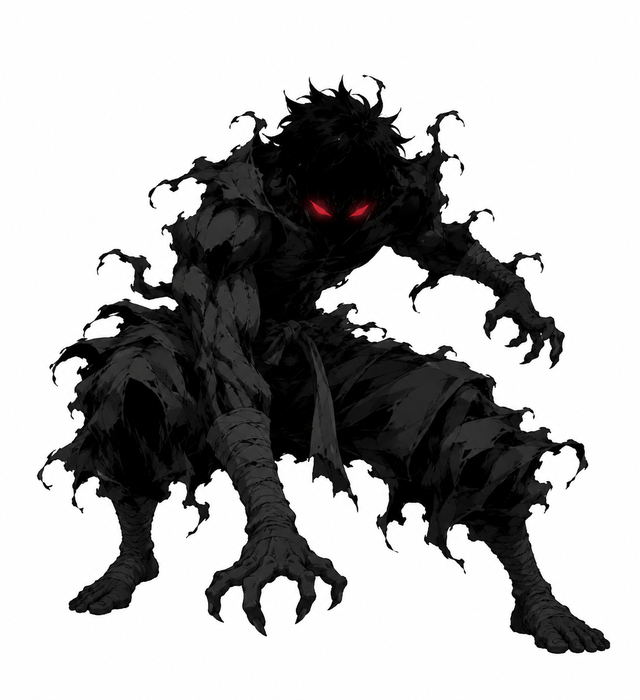
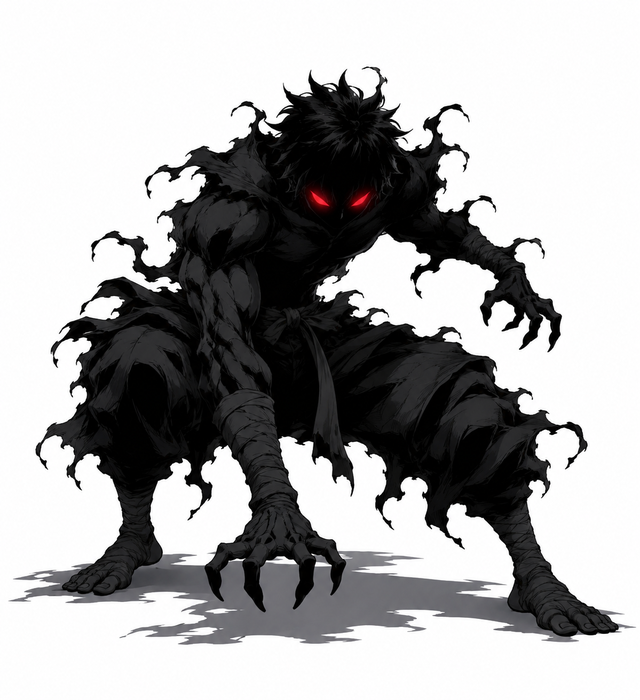
Objetivos sin scroll ni cargas manuales; agua por pregunta tras cada comida (meta 1 L); cierre automático de días; titulos de la bestia en pergamino; nueva imagen de la bestia
Claude-Session: https://claude.ai/code/session_014cUX87EDqZ9zQEPwB8aYGo

Changed region(s): [[0.0312, 0.09, 1.0, 0.93]]

diff --git a/public/app.js b/public/app.js
@@ -94,7 +94,18 @@ async function sync() {
     syncMsg = e.status === 401 ? 'Clave inválida: volvé a ingresar.' : 'Sin conexión: se sincroniza más tarde.';
     if (e.status === 401) S.token = '';
   }
-  syncing = false; save(); render();
+  syncing = false; save(); render(); autoClose();
+}
+/** Los días anteriores se cierran solos: se fija el puntaje final de la comida. */
+const closing = new Set();
+function autoClose() {
+  if (!S.startDate || !S.token) return;
+  const today = todayISO();
+  for (const [d, v] of Object.entries(S.days)) {
+    if (d >= today || v.input?.closed || !Object.keys(v.input || {}).length) continue;
+    setInput(d, i => { i.closed = true; });
+    if (wkdayOf(d) < 5 && !S.days[d].input.meals && !closing.has(d)) { closing.add(d); loadMeals(d, true).then(() => { if (mealsOf(d).length) mealClose(d); }); }
+  }
 }
 const pending = () => Object.values(S.days).filter(v => v.dirty).length;
 
@@ -133,7 +144,7 @@ async function hydratePhotos() {
   }
 }
 /** Alimentación con IA: el servidor describe cada comida, guarda la lista del día y rehace el análisis completo. */
-let busy = '', errMeal = '', pendBlob = null, pendURL = '';
+let waterQ = null, busy = '', errMeal = '', pendBlob = null, pendURL = '';
 S.mc = S.mc || {};
 const mealsOf = date => S.mc[date]?.meals ?? [];
 const blobB64 = b => new Promise((res, rej) => { const r = new FileReader(); r.onload = () => res(String(r.result).split(',')[1]); r.onerror = () => rej(r.error); r.readAsDataURL(b); });
@@ -143,11 +154,11 @@ async function aiRun(label, fn) {
   catch (e) { errMeal = e.message || 'No se pudo completar'; }
   busy = ''; render();
 }
-const mealSend = (blob, text) => aiRun('Analizando la comida…', async () => {
+const mealSend = (blob, text) => { waterQ = { date: todayISO() }; return aiRun('Analizando la comida…', async () => {
   const date = todayISO(), r = await api('/api/meal', 'POST', { date, t: hhmm(), image: blob ? await blobB64(blob) : undefined, mime: 'image/jpeg', text: text || undefined });
   if (blob) await fotoPut(r.id, blob).catch(() => {});
   S.mc[date] = { meals: r.meals }; txOpen = false; txDraft = ''; pendBlob = null; if (pendURL) URL.revokeObjectURL(pendURL); pendURL = '';
-});
+}); };
 const mealClose = date => aiRun('Armando el puntaje final del día…', async () => {
   const r = await api('/api/meal/close', 'POST', { date }); S.mc[date] = { meals: r.meals };
   if (!r.closed) errMeal = 'La IA no dio un puntaje claro: tocá Reabrir y volvé a confirmar.';
@@ -166,7 +177,7 @@ function gameStatus(h, cap) {
 // ---------- Objetivos: el tablero del día ----------
 const wkdayOf = d => (new Date(toUTC(d)).getUTCDay() + 6) % 7;
 const isSess = inp => (inp.gymMin ?? (inp.gym ? 60 : 0)) >= 40;
-const waterOk = inp => (inp.waterMl ?? 0) >= 2500 || !!inp.water;
+const waterOk = inp => (inp.waterMl ?? 0) >= 1000 || !!inp.water;
 const dayDoneN = (inp, d) => [isSess(inp), !!inp.read, roomsOf(inp).length > 0, waterOk(inp), ...(wkdayOf(d) < 5 ? [inp.foodPct !== undefined] : [])].filter(Boolean).length;
 const dayNeed = d => (wkdayOf(d) < 5 ? 5 : 4);
 const pc = x => Math.round(x * 100) + ' %';
@@ -177,13 +188,14 @@ const infoRow = (cat, label, meta, right, done) => `<div class="mrow static ${do
 
 /** Tarjeta de comidas del día: lista, carga (foto o texto) y el puntaje que va dando la IA. */
 function foodCard(date, inp, locked) {
-  if (wkdayOf(date) >= 5) return `<div class="card slim"><h2>${pic('comida', '')} Comidas</h2><p class="mute">Fin de semana: tus permitidos. La comida no puntúa.</p></div>`;
+  if (wkdayOf(date) >= 5) return `<div class="card slim"><h2>${pic('comida', '')} Comidas</h2><p class="mute">Fin de semana: tus permitidos. La comida no puntúa.</p>${date === todayISO() ? `<div class="row" style="margin-top:8px"><span class="mute">Agua: ${litros(inp.waterMl ?? 0)} / 1 L</span><button class="btn sm" data-act="waterq" data-v="1">Bebí 250 ml</button></div>` : ''}</div>`;
   const list = mealsOf(date), isToday = date === todayISO(), pre = dayIdx(date) < 0, off = pre || !!busy || locked || !isToday;
   const sc = inp.foodPct, cls = sc >= 0.8 ? 'ok' : sc >= 0.5 ? 'gold' : sc !== undefined ? 'bad' : '';
   let h = `<div class="card slim"><div class="row"><h2>${pic('comida', '')} Comidas</h2><span class="pill ${cls}">${sc === undefined ? 'sin puntuar' : (inp.meals ? 'final ' : 'va ') + pc(sc)}</span></div>`;
   h += list.length ? list.map(x => entryHTML(x, date)).join('') : '<p class="mute">Todavía no cargaste ninguna comida.</p>';
   h += txOpen && isToday ? `<div class="row" style="margin-top:10px"><button class="btn sm ghost" data-act="pickfoto" ${busy ? 'disabled' : ''}>📷 ${pendBlob ? 'Cambiar foto' : 'Agregar foto'}</button>${pendBlob ? `<img class="thumb" src="${pendURL}" alt="">` : '<span class="mute">sin foto</span>'}</div><textarea id="txin" rows="3" placeholder="${pendBlob ? 'Descripción breve (opcional, por las dudas)' : 'Qué comiste (ej.: 2 milanesas con ensalada y agua)'}">${esc(txDraft)}</textarea><div class="row" style="margin-top:8px"><button class="btn ghost sm" data-act="txcancel" ${busy ? 'disabled' : ''}>Cancelar</button><button class="btn sm" data-act="mealsend" ${busy ? 'disabled' : ''}>Enviar</button></div>`
     : `<button class="btn" style="margin-top:10px;width:100%" ${off ? 'disabled' : 'data-act="txopen"'}>Cargar comida</button>`;
+  if (waterQ && waterQ.date === date) h += `<div class="wq"><b>¿Bebiste 250 ml de agua con esta comida?</b><div class="row"><button class="btn sm" data-act="waterq" data-v="1">Sí</button><button class="btn sm ghost" data-act="waterq" data-v="0">No</button></div></div>`;
   h += `${busy ? `<p class="mute busy">⏳ ${busy}</p>` : ''}${errMeal ? `<p class="err">${esc(errMeal)}</p>` : ''}`;
   if (inp.verdictTx) h += `<p class="vnote">${esc(inp.verdictTx)}</p>`;
   return h + `</div>`;
@@ -199,30 +211,24 @@ function viewHoy() {
   const nav = `<div class="wk">${strip}</div><div class="daytitle">${viewDate === today ? 'Hoy' : 'Editando'} · ${pretty(viewDate)}${viewDate !== today ? ' · <a href="#" data-act="today">volver a hoy</a>' : ''}</div>`;
   if (idx < 0 && !pre) return `${title}${nav}<div class="card mute">Este día es anterior al inicio.</div>`;
   const { e, results } = pre ? { e: newRise(), results: [{ events: [] }] } : compute(idx), st = e.state, r = results[pre ? 0 : idx], cfg = e.cfg;
-  const inp = pre ? {} : S.days[viewDate]?.input ?? {}, locked = pre || !!inp.closed;
+  const inp = pre ? {} : S.days[viewDate]?.input ?? {}, locked = pre;
   const gained = r.events.reduce((a, x) => a + x.amount, 0), mult = ladder(st.k, Math.min(st.wk.sess, 4));
   const wk = st.wk, mo = st.mo, gH = wk.gameH, cap = cfg.gameCapH;
   let h = title + `<div class="quote">${esc(dayPhrase(viewDate, pre, idx, e, st))}</div>` + nav;
-  if (viewDate === today && idx > 0) { const y = addDays(today, -1), yi = S.days[y]?.input; if (yi && Object.keys(yi).length && !yi.closed) h += `<div class="banner">Ayer quedó sin confirmar. <a href="#" data-act="day" data-d="${y}">Revisarlo</a></div>`; }
-  h += `<div class="sum"><span><small>XP del día</small><b>+${fmt(gained)}</b></span><span><small>Nivel</small><b>${e.level()}</b></span><span><small>Racha</small><b>${st.k} ${st.k === 1 ? 'sem' : 'sems'}</b></span><span><small>Multiplic.</small><b>×${String(+mult.toFixed(2)).replace('.', ',')}</b></span></div>`;
   h += `<div class="seg">${[['dia', 'Día'], ['sem', 'Semana'], ['mes', 'Mes']].map(([k, l]) => `<button class="${mtab === k ? 'on' : ''}" data-act="mtab" data-v="${k}">${l}</button>`).join('')}</div><!--fit-->`;
   if (mtab === 'dia') {
-    const sessMin = inp.gymMin ?? (inp.gym ? 60 : 0), gs = gameStatus(gH, cap), n = dayDoneN(inp, viewDate), tot = dayNeed(viewDate);
+    const sessMin = inp.gymMin ?? (inp.gym ? 60 : 0), gs = gameStatus(gH, cap), ml = inp.waterMl ?? 0;
     let b = `<div class="card slim"><div class="row"><h2>Automático</h2><span class="pill ${isSess(inp) ? 'ok' : ''}">${isSess(inp) ? 'sesión ✓' : 'sin sesión'}</span></div>`
       + infoRow('F', 'Gimnasio / boxeo', `${sessMin} min · se detecta por ubicación`, '', isSess(inp))
-      + `<div class="row" style="margin:4px 0 8px"><input id="gm" type="text" inputmode="numeric" placeholder="Minutos (si falló el atajo)" ${locked ? 'disabled' : ''} autocomplete="off"><button class="btn sm" ${locked ? 'disabled' : 'data-act="gymset"'}>Fijar</button></div>`
       + `<div class="row"><b>${pic('juegos', iconTag('D', 1))} Juegos</b><span class="pill ${gs[0]}">${hrs(gH)} / ${hrs(cap)}</span></div><div class="bar gold"><i style="width:${Math.min(100, gH / cap * 100)}%"></i></div><div class="mute">${gs[1]} · hoy ${hrs(inp.gameH || 0)}</div>`
-      + `<div class="row" style="margin-top:8px"><input id="gh" type="text" inputmode="decimal" placeholder="Horas de videojuegos (ej.: 1,5)" ${locked ? 'disabled' : ''} autocomplete="off"><button class="btn sm" ${locked ? 'disabled' : 'data-act="gameadd"'}>Sumar</button></div>${(inp.gameH || 0) > 0 && !locked ? `<button class="undo" data-act="gamezero">Borrar las de hoy</button>` : ''}</div>`;
+      + `<div class="row" style="margin-top:6px"><b>${pic('agua', '💧')} Agua</b><span class="pill ${waterOk(inp) ? 'ok' : ''}">${litros(ml)} / 1 L</span></div><div class="bar"><i style="width:${Math.min(100, ml / 10)}%"></i></div></div>`;
     b += foodCard(viewDate, inp, locked);
-    const ml = inp.waterMl ?? 0;
-    b += `<div class="card slim"><div class="row"><h2>${pic('agua', '')} Agua</h2><span class="pill ${waterOk(inp) ? 'ok' : ''}">${litros(ml)} / 2,5 L</span></div><div class="bar"><i style="width:${Math.min(100, ml / 25)}%"></i></div><div class="row"><button class="btn sm ghost" data-act="water" data-v="-250" ${locked || ml <= 0 ? 'disabled' : ''}>− vaso</button><button class="btn sm" data-act="water" data-v="250" ${locked ? 'disabled' : ''}>+ vaso (250 ml)</button></div></div>`;
     const mine = roomsOf(inp), taken = wk.rooms.filter(x => !mine.includes(x));
-    b += `<div class="card slim"><div class="row"><h2>Ambientes</h2><span class="pill ${wk.rooms.length >= cfg.cleanRoomsWeek ? 'ok' : ''}">${wk.rooms.length} / ${cfg.cleanRoomsWeek} esta semana</span></div><div class="rooms">${ROOMS.map(([id, nm]) => `<button class="room ${mine.includes(id) ? 'sel' : ''} ${taken.includes(id) ? 'taken' : ''}" ${locked ? 'disabled' : `data-act="roomtap" data-r="${id}"`}>${roomTile(id)}<b>${nm}</b>${mine.includes(id) || taken.includes(id) ? '<span class="ck">✓</span>' : ''}</button>`).join('')}</div><p class="mute">Tocá los que limpiaste hoy. La primera limpieza del día vale más; los otros ambientes suman menos. Cada ambiente cuenta una vez por semana.</p></div>`;
-    b += `<div class="card slim"><button class="mrow ${inp.read ? 'on' : ''}" ${locked ? 'disabled' : 'data-act="readtog"'}><span class="mic">${iconTag('I', 2)}</span><span class="mtx"><b>Leí hoy</b><small>10 páginas alcanzan · suma XP de Inteligencia</small></span><span class="chk">${inp.read ? '✓' : ''}</span></button></div>`;
-    b += locked && !pre
-      ? `<div class="banner ok">Día confirmado ✓ · ${n} / ${tot}</div><button class="btn ghost" style="width:100%" data-act="reopen">Reabrir el día</button>`
-      : `<button class="btn" style="width:100%" ${pre || viewDate > today ? 'disabled' : 'data-act="confirm"'}>Confirmar día (${n} / ${tot})</button>`;
-    h += `<div class="iscroll">${b}</div>`;
+    b += `<div class="card slim"><div class="row"><h2>Ambientes</h2><span class="pill ${wk.rooms.length >= cfg.cleanRoomsWeek ? 'ok' : ''}">${wk.rooms.length} / ${cfg.cleanRoomsWeek} esta semana</span></div><div class="rooms">${ROOMS.map(([id, nm]) => `<button class="room ${mine.includes(id) ? 'sel' : ''} ${taken.includes(id) ? 'taken' : ''}" ${locked ? 'disabled' : `data-act="roomtap" data-r="${id}"`}>${roomTile(id)}<b>${nm}</b>${mine.includes(id) || taken.includes(id) ? '<span class="ck">✓</span>' : ''}</button>`).join('')}</div></div>`;
+    b += `<div class="card slim"><button class="mrow ${inp.read ? 'on' : ''}" ${locked ? 'disabled' : 'data-act="readtog"'}><span class="mic">${iconTag('I', 2)}</span><span class="mtx"><b>Leí hoy</b><small>10 páginas alcanzan</small></span><span class="chk">${inp.read ? '✓' : ''}</span></button></div>`;
+    // Corrección manual: solo al editar un día anterior
+    if (!pre && viewDate < today) b += `<div class="card slim"><h2>Corregir este día</h2><div class="row" style="margin:8px 0 4px"><input id="gm" type="text" inputmode="numeric" placeholder="Minutos de gimnasio" autocomplete="off"><button class="btn sm" data-act="gymset">Fijar</button></div><div class="row"><input id="gh" type="text" inputmode="decimal" placeholder="Horas de videojuegos (ej.: 1,5)" autocomplete="off"><button class="btn sm" data-act="gameadd">Sumar</button></div>${(inp.gameH || 0) > 0 ? `<button class="undo" data-act="gamezero">Borrar las de ese día</button>` : ''}</div>`;
+    h += b;
   } else if (mtab === 'sem') {
     const need = needSessions(st.k), avg = wk.food.length ? wk.food.reduce((a, x) => a + x, 0) / wk.food.length : 0;
     h += `<div class="card slim"><div class="row"><h2>Esta semana</h2><span class="pill ${e.weekType(pre ? 0 : idx) === 'descarga' ? 'gold' : ''}">semana de ${e.weekType(pre ? 0 : idx)}</span></div>`;
@@ -401,7 +407,7 @@ function campMascota(e, pre) {
     return `<div class="mrow static ${got ? 'on' : ''}"><span class="mic">${got ? pic('titulo', '♛', 24) : '·'}</span><span class="mtx"><b>${t.name}</b><small>${got ? 'desde el ' + pretty(addDays(S.startDate, st.petTitles[g])) : `nivel ${t.lvl}`}</small></span><span class="chk">${got ? '✓' : ''}</span></div>`;
   }).join('') + `</div>`;
   b += `<p class="mute">${PET_NAME} sube de nivel con tu constancia en el gimnasio y cuando mejorás tus pesos o repeticiones.</p>`;
-  return figCard('pet', has('sombra_' + sc[0]) ? 'sombra_' + sc[0] : 'sombra_bestia', e.petTitleName(), `${PET_NAME} · Nivel ${pp.level}`, pp.max ? 100 : pp.pct * 100, false, b, true);
+  return figCard('pet', has('sombra_' + sc[0]) ? 'sombra_' + sc[0] : 'sombra_bestia', e.petTitleName(), `${PET_NAME} · Nivel ${pp.level}`, pp.max ? 100 : pp.pct * 100, false, b);
 }
 
 function campGimnasio(e, pre) {
@@ -568,6 +574,7 @@ document.addEventListener('click', async ev => {
   else if (a === 'sub') { SUB[el.dataset.k] = el.dataset.v; if (el.dataset.k === 'camp' && el.dataset.v === 'pet') rerollScene(); render(); }
   else if (a === 'roomtap') actDay(viewDate, i => { const r = el.dataset.r, s = new Set(roomsOf(i)); if (s.has(r)) s.delete(r); else s.add(r); delete i.room; i.rooms = [...s]; if (!i.rooms.length) delete i.rooms; });
   else if (a === 'readtog') actDay(viewDate, i => { i.read = !i.read; });
+  else if (a === 'waterq') { const d = waterQ?.date || todayISO(); waterQ = null; if (el.dataset.v === '1') actDay(d, i => { i.waterMl = (i.waterMl || 0) + 250; }); else render(); }
   else if (a === 'water') actDay(viewDate, i => { const v = Math.max(0, (i.waterMl || 0) + (+el.dataset.v)); if (v) i.waterMl = v; else delete i.waterMl; });
   else if (a === 'gymset') {
     const v = parseInt(document.getElementById('gm')?.value, 10);

diff --git a/engine/src/engine/rise.ts b/engine/src/engine/rise.ts
@@ -19,7 +19,7 @@ export interface RiseInput {
   foodPct?: number;                // 0..1, lo que Gemini puntúa del día (L–V)
   food?: boolean;                  // v1.x: aprobado = 100 %, cerrado sin aprobar = 50 %
   water?: boolean;                 // meta de agua cumplida
-  waterMl?: number;                // agua tomada (la meta son 2.500 ml)
+  waterMl?: number;                // agua tomada (la meta es 1 litro)
   closed?: boolean;                // el día fue confirmado a mano (solo la app lo usa)
   meals?: boolean;                 // el análisis de comida del día quedó cerrado
   gameH?: number;                  // horas de videojuegos
@@ -258,7 +258,7 @@ export function normalize(r: RiseInput, c: RiseConfig = RISE): RiseInput {
   const o: RiseInput = { ...r };
   if (o.gymMin === undefined && r.gym) o.gymMin = 60;
   if (o.foodPct === undefined) { if (r.food) o.foodPct = 1; else if (r.meals) o.foodPct = 0.5; }
-  if (o.water === undefined && (r.waterMl ?? 0) >= 2500) o.water = true;
+  if (o.water === undefined && (r.waterMl ?? 0) >= 1000) o.water = true;
   void c; return o;
 }
 

diff --git a/engine/test/rise.test.ts b/engine/test/rise.test.ts
@@ -162,7 +162,7 @@ test('datos de versiones anteriores se convierten', () => {
   assert.equal(normalize({ food: true }).foodPct, 1);
   assert.equal(normalize({ meals: true }).foodPct, 0.5);
   assert.equal(normalize({ gym: true, gymMin: 83 }).gymMin, 83);
-  assert.equal(normalize({ waterMl: 2500 }).water, true); assert.equal(normalize({ waterMl: 2000 }).water, undefined);
+  assert.equal(normalize({ waterMl: 1000 }).water, true); assert.equal(normalize({ waterMl: 750 }).water, undefined);
 });
 
 test('progreso: carga/descarga alternan 3+1 y el ciclo paga con 4 ejercicios distintos', () => {

diff --git a/public/style.css b/public/style.css
@@ -123,3 +123,5 @@ img.tile{width:52px;height:52px;object-fit:contain;filter:grayscale(1) invert(1)
 :root[data-theme=papel] .scrollbtn.on img.ico{filter:grayscale(1) invert(1)}
 .scrollbtn .pdot{position:absolute;top:-4px;right:-4px;margin:0;border:2px solid var(--bg)}
 .scrollbtn img.ico{margin:0}
+.wq{margin:8px 0;padding:8px 10px;border:1px solid var(--hi);background:var(--field)}.wq b{display:block;font-size:13px;margin-bottom:6px}.wq .row{justify-content:flex-start}
+.rooms{gap:6px}.room{min-height:64px;padding:5px 2px;gap:2px}.room .tile,img.tile{width:36px;height:36px;font-size:20px}

diff --git a/public/sw.js b/public/sw.js
@@ -1,5 +1,5 @@
 // Service worker: funciona sin conexión (caché) y muestra las notificaciones push.
-const CACHE = 'pd-v79';
+const CACHE = 'pd-v80';
 const SHELL = ['/', '/index.html', '/app.js', '/rise.js', '/phrases.js', '/style.css', '/art.js', '/px.js', '/assets.js', '/manifest.webmanifest', '/icon-180.png', '/icon-192.png', '/icon-512.png'];
 
 self.addEventListener('install', e => { e.waitUntil(caches.open(CACHE).then(c => c.addAll(SHELL)).then(() => self.skipWaiting())); });

diff --git a/public/rise.js b/public/rise.js
@@ -323,7 +323,7 @@ function normalize(r, c = RISE) {
     else if (r.meals)
       o.foodPct = 0.5;
   }
-  if (o.water === undefined && (r.waterMl ?? 0) >= 2500)
+  if (o.water === undefined && (r.waterMl ?? 0) >= 1000)
     o.water = true;
   return o;
 }
